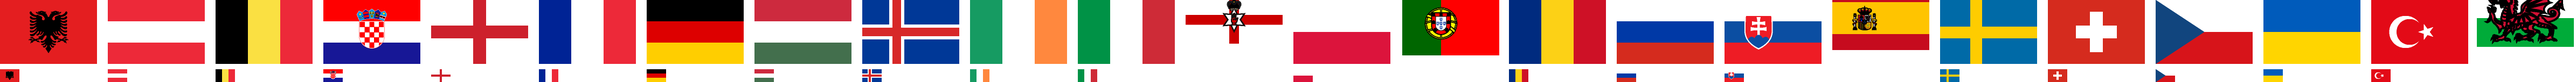
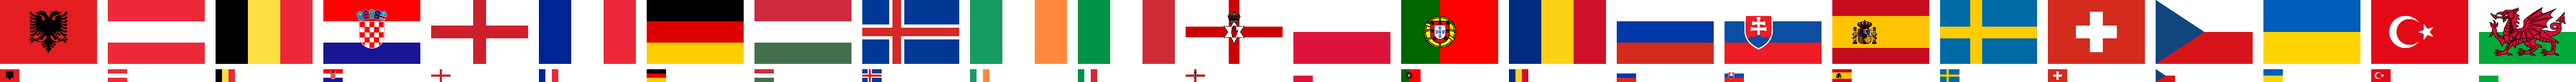
flags

diff --git a/src/components/Predictions/PredictionsTab.js b/src/components/Predictions/PredictionsTab.js
@@ -52,7 +52,9 @@ class PredictionsTab extends Component {
                 {teamsData[item.game.teamA] &&
                   <div className="Team">
                     <div className="Label">{teamsData[item.game.teamA].name}</div>
-                    <div className="Flag"><img src={teamsData[item.game.teamA].flagUrl} /></div>
+                    <div className="Flag">
+                      <div className={'flag-12 ' + teamsData[item.game.teamA].slug} />
+                    </div>
                   </div>
                 }
                 <div className="ScoreContainer">
@@ -64,7 +66,9 @@ class PredictionsTab extends Component {
                 </div>
                 {teamsData[item.game.teamB] &&
                   <div className="Team">
-                    <div className="Flag"><img src={teamsData[item.game.teamB].flagUrl} /></div>
+                    <div className="Flag">
+                      <div className={'flag-12 ' + teamsData[item.game.teamB].slug} />
+                     </div>
                     <div className="Label">{teamsData[item.game.teamB].name}</div>
                   </div>
                 }

diff --git a/src/components/Predictions/PredictionsByGameTab.js b/src/components/Predictions/PredictionsByGameTab.js
@@ -36,7 +36,9 @@ class PredictionsByGameTab extends Component {
               <div className="Center">
                 {teamsData[item.game.teamA] &&
                   <div className="Team">
-                    <div className="Flag"><img src={teamsData[item.game.teamA].flagUrl} /></div>
+                    <div className="Flag">
+                      <div className={'flag-12 ' + teamsData[item.game.teamA].slug} />
+                   </div>
                   </div>
                 }
                 <div className="ScoreContainer">
@@ -48,7 +50,9 @@ class PredictionsByGameTab extends Component {
                 </div>
                 {teamsData[item.game.teamB] &&
                   <div className="Team">
-                    <div className="Flag"><img src={teamsData[item.game.teamB].flagUrl} /></div>
+                    <div className="Flag">
+                      <div className={'flag-12 ' + teamsData[item.game.teamB].slug} />
+                    </div>
                   </div>
                 }
               </div>

diff --git a/src/style/Predictions/PredictionsTab.scss b/src/style/Predictions/PredictionsTab.scss
@@ -96,12 +96,6 @@
           margin-top: 3px;
           font-size: 0;
           height: 16px;
-
-          img{
-            display: inline-block;
-            vertical-align: top;
-            height: 16px;
-          }
         }
 
         &.Winner .Label{
